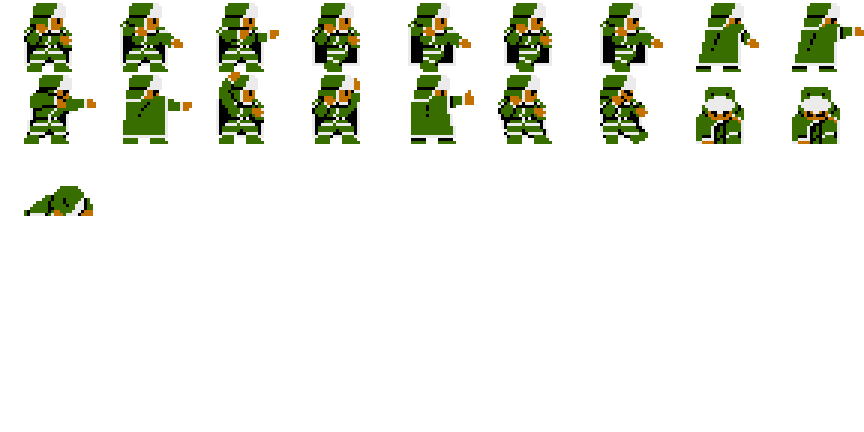
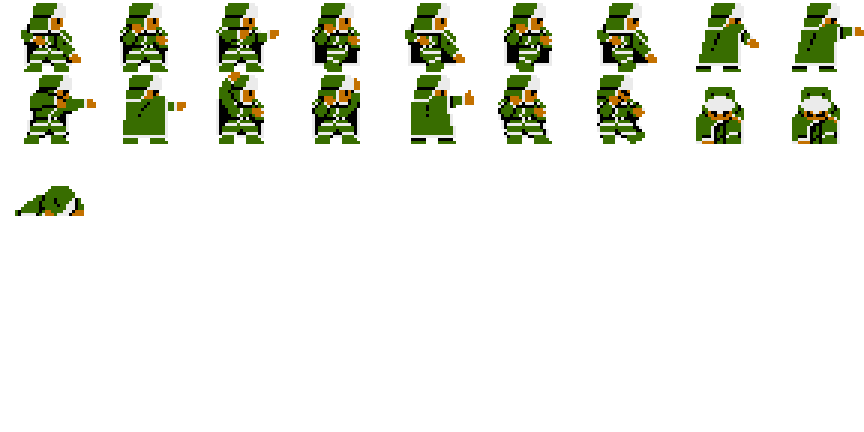
anim/sprite tweaks, and escape animation

diff --git a/js/plugins/E9D_RetroFantasy.js b/js/plugins/E9D_RetroFantasy.js
@@ -1314,7 +1314,6 @@
 	
 	Game_Battler.prototype.motionType = function() {
 		const stance = this.weaponStance();
-		console.log(stance);
 		switch(this._motionType) {
 		case "wait":
 			if(stance === "spear") { return "spear"; }
@@ -2804,8 +2803,8 @@
 	
 	// Sprite Actor
 	Sprite_Actor.POSES = {
-		wait: { index: 0 },
-		spear: { index: 1 },
+		spear: { index: 0 },
+		wait: { index: 1 },
 		longGun: { index: 2 },
 		walk: { index: 3 },
 		walkSpear: { index: 4 },
@@ -2838,6 +2837,8 @@
 		skill: { poses: ["skill", "skill", "skill"], loop: false },
 		item: { poses: ["item", "item", "item"], loop: false },
 		victory: { poses: ["victory", "victory", "victory"], loop: true },
+		escape: { poses: ["walk", "wait", "walk"], loop: false },
+		escapeSpear: { poses: ["walkSpear", "spear", "walkSpear"], loop: false },
 		evade: { poses: ["evade", "evade", "evade"], loop: false },
 		damage: { poses: ["damage", "damage", "damage"], loop: false },
 		abnormal: { poses: ["abnormal", "abnormal", "abnormal"], loop: true },
@@ -3062,6 +3063,7 @@
 	Sprite_Actor.prototype.startMotion = function(motionType) {
 		motionType = motionType === "wait" && this._actor.weaponStance() === "spear" ? "spear" : motionType;
 		motionType = motionType === "walk" && this._actor.weaponStance() === "spear" ? "walkSpear" : motionType;
+		motionType = motionType === "escape" && this._actor.weaponStance() === "spear" ? "escapeSpear" : motionType;
 		const newMotion = Sprite_Actor.MOTIONS[motionType];
 		if (this._motion !== newMotion) {
 			if(this._motionType === "damage" || this._motionType === "evade") {
@@ -3074,6 +3076,8 @@
 			if(
 				motionType === "walk" ||
 				motionType === "walkSpear" ||
+				motionType === "escape" ||
+				motionType === "escapeSpear" ||
 				motionType === "wait" ||
 				motionType === "spear" ||
 				motionType === "damage" ||
@@ -3088,6 +3092,8 @@
 			if(
 				motionType === "walk" ||
 				motionType === "walkSpear" ||
+				motionType === "escape" ||
+				motionType === "escapeSpear" ||
 				motionType === "wait" ||
 				motionType === "damage" ||
 				motionType === "evade" ||
@@ -3757,6 +3763,8 @@
 						break;
 					case "spear":
 					case "walkSpear":
+					case "escape":
+					case "escapeSpear":
 						displayPattern = 2;
 						break;
 					case "missile":
@@ -3778,13 +3786,22 @@
 					this.x = -10;
 					this.y = 16;
 					this.scale.x = 1;
+				} else if (this._motionType === "damage") {
+					this.x = -9;
+					this.y = 16;
+					this.scale.x = 1;
 				} else if (this._motionType === "pommel" && this._pattern > 0) {
 					this.x = 8;
 					this.y = 16;
 					this.scale.x = 1;
-				} else if (this._motionType === "spear" || this._motionType === "walkSpear" || this._motionType === "thrustSpear" && this._pattern === 0) {
-					this.x = -16;
-					this.y = 12;
+				} else if (
+					this._motionType === "spear" ||
+					this._motionType === "walkSpear" ||
+					this._motionType === "escapeSpear" ||
+					(this._motionType === "thrustSpear" && this._pattern === 0)
+				) {
+					this.x = -18;
+					this.y = 17;
 					this.scale.x = 1;
 				} else {
 					this.x = -8;
